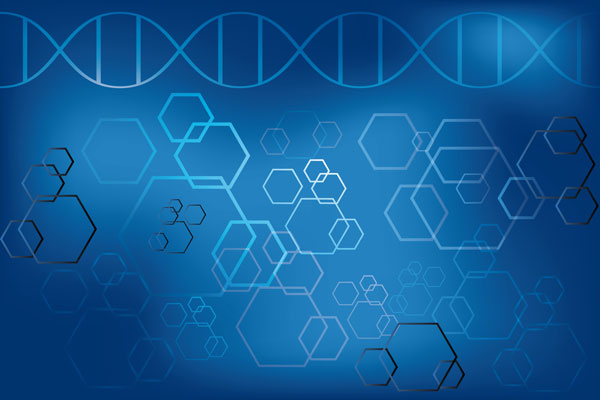
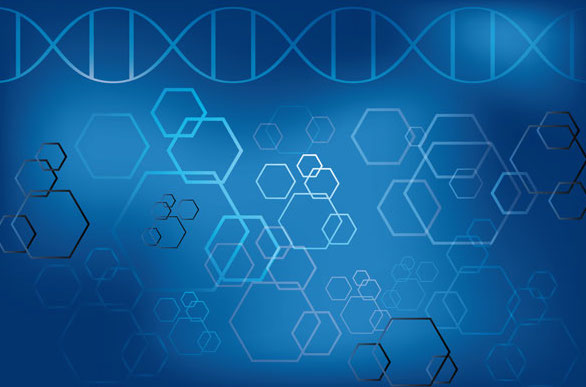
made ads work

diff --git a/_includes/footer.html b/_includes/footer.html
@@ -5,7 +5,7 @@
     <h2 class="footer-heading">{{ site.title }}</h2>
 
     <div class="footer-col-wrapper">
-      <div class="col-sm-6">
+      <div class="col-sm-12">
         <ul class="contact-list">
           <li>By: Ashwin Ramaswami</li>
           <li><a href="mailto:{{ site.email }}">{{site.email}}</a></li>
@@ -13,8 +13,8 @@
 
       </div>
 
-      <div class="col-sm-6">
-<script async src="http://pagead2.googlesyndication.com/pagead/js/adsbygoogle.js"></script>
+<div class="col-sm-12">
+<script async src="//pagead2.googlesyndication.com/pagead/js/adsbygoogle.js"></script>
 <!-- ad2 -->
 <ins class="adsbygoogle"
      style="display:inline-block;width:468px;height:15px"
@@ -23,7 +23,8 @@
 <script>
 (adsbygoogle = window.adsbygoogle || []).push({});
 </script>
-      </div>
+</div>
+
     </div>
 
   </div>

diff --git a/_sass/_layout.scss b/_sass/_layout.scss
@@ -248,7 +248,7 @@ strong em {
 
 @media (min-width:768px) {
 
-    body {padding-top:50px}
+    body {/*padding-top:50px*/}
     .navbar-static-top {position:fixed;top:0;right:0;left:0;}
 
 }
@@ -262,7 +262,7 @@ img.center {
 }
 
 body {
-    /*background: url('/images/Science-background.jpg')*/
+    background: url('/images/Science-background.jpg')
 }
 
 img.small {

diff --git a/_sass/_base.scss b/_sass/_base.scss
@@ -158,8 +158,7 @@ pre {
     max-width:         calc(800px - (#{$spacing-unit} * 2));
     margin-right: auto;
     margin-left: auto;
-    padding-right: $spacing-unit;
-    padding-left: $spacing-unit;
+    padding: $spacing-unit;
     @extend %clearfix;
 
     @include media-query($on-laptop) {

diff --git a/_includes/header.html b/_includes/header.html
@@ -39,6 +39,7 @@
 </ul>
         </li>
       </ul>
+      
       <!--form class="navbar-form navbar-left" role="search">
         <div class="form-group">
           <input type="text" class="form-control" placeholder="Search">

diff --git a/_layouts/page.html b/_layouts/page.html
@@ -5,6 +5,7 @@ layout: default
 
   <div class="page-header">
     <h1>{{ page.title }}</h1>
+
   </div>
 
   <article class="post-content">

diff --git a/_layouts/default.html b/_layouts/default.html
@@ -10,8 +10,6 @@
 
       <div class="wrapper">
 
-
-      <div>
         {{ content }}
       </div>
 

diff --git a/_layouts/article.html b/_layouts/article.html
@@ -3,7 +3,6 @@ layout: page
 ---
 
 
-
 {% capture my_include %}
 
 * hi
